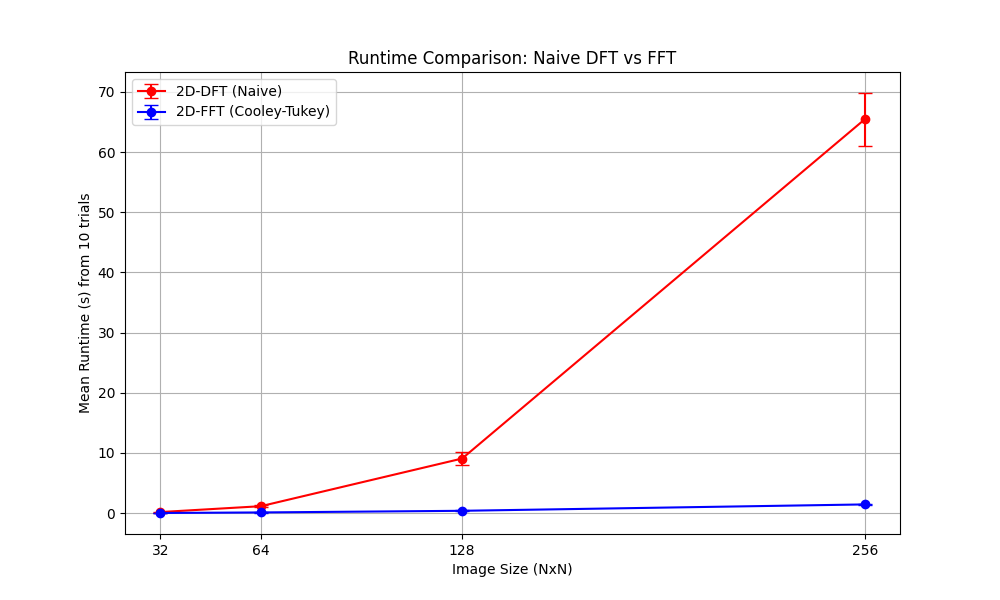
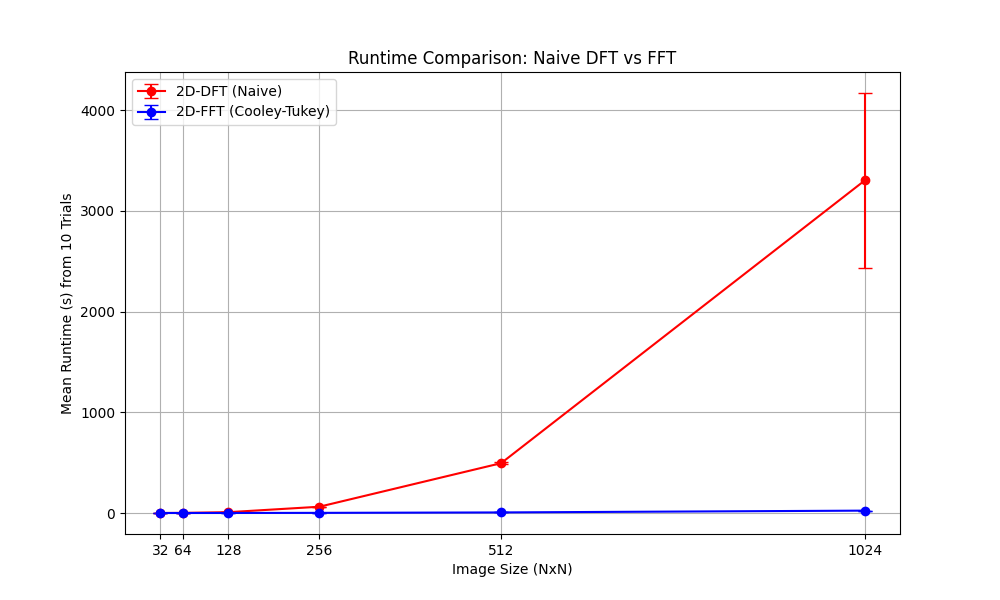
1024x1024 FFT runtime analysis

diff --git a/fft.py b/fft.py
@@ -308,7 +308,7 @@ def save_and_display_compression_results(image, magnitude, phase, original_shape
     
 # Compare runtime of Naive DFT and FFT
 def plot_runtime_graphs():
-    sizes = [2**5, 2**6, 2**7, 2**8]  # Image sizes 32, 64, 128, 256 to test
+    sizes = [2**5, 2**6, 2**7, 2**8, 2**9, 2**10]  # Image sizes 32, 64, 128, 256, 512, 1024 to test
     dft_means = []
     fft_means = []
     dft_variances = []
